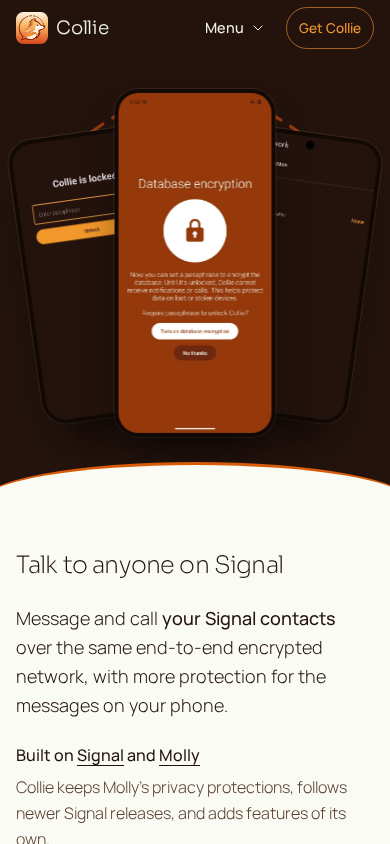
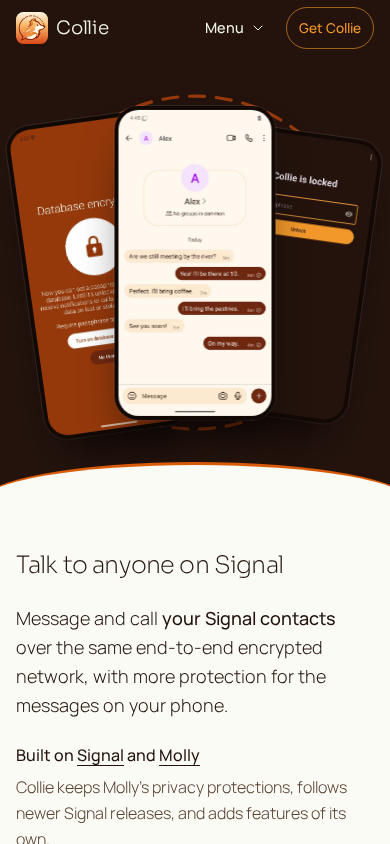
Freeze current real-messaging hero evidence and review context
Capture actual desktop, phone and tablet hero/page-top views with natural image ratios. Distinguish native viewport provenance, rear overlap, retained component proof and durable security validation.

Layer: website

Changed region(s): [[0.0308, 0.0924, 0.9231, 0.5237]]

diff --git a/docs/screenshots/pr-95/README.md b/docs/screenshots/pr-95/README.md
@@ -1,182 +1,78 @@
-# Current Collie website review set
+# Current website review evidence
 
-Implementation source is signed `b7b32031a75c23ec63a4bd62780e473beda4e245`; review the containing evidence commit as one candidate. Fresh native assets remain in `555fff83a6b7e8f5b8de89f522859f250a166b5f`. No score is supplied by the implementation owner.
+Implementation source is signed 0456fa475b76111a94c52949e2381f13a2ed8108; native assets/provenance are signed b3b4857fe6ebc0338f732cd9129c8b1bc94880f0. Review the containing evidence commit as one stable candidate. No rating is supplied by the implementation owner.
 
-## Current affected views
+## Current views
 
-| View | Screenshot | Actual iframe CSS viewport / PNG dimensions |
+All paths below are in this directory. The eight hero/page-top views are freshly rendered after adding the genuine chat. Unchanged component views retain their original source provenance: feature/Upcoming views from b7b32031a75c, community from 4a954f19b0b0, downloads/footer from 2917bdc27ad5. Their component source/appearance is unchanged by this image-only hero pass; their document offsets are reported separately.
+
+| View | File | Actual iframe CSS viewport / PNG dimensions |
 | --- | --- | --- |
-| Phone features | [features-mobile-light.png](features-mobile-light.png) | 390 × 1100 |
-| Phone introduction | [about-mobile.png](about-mobile.png) | 390 × 844 |
-| Narrow features | [features-narrow-light.png](features-narrow-light.png) | 320 × 1300 |
-| Narrow introduction | [about-narrow-light.png](about-narrow-light.png) | 320 × 844 |
-| Desktop features | [features-desktop-light.png](features-desktop-light.png) | 1280 × 1000 |
-| Unchanged tablet features | [features-tablet-light.png](features-tablet-light.png) | 768 × 1300 |
+| Desktop hero | [light](desktop-light.png) · [dark](desktop-dark.png) |1280×800|
+| Phone hero, scrolled to phones | [light](mobile-light.png) · [dark](mobile-dark.png) |390×844|
+| Narrow hero/curve | [hero-narrow-light.png](hero-narrow-light.png) |320×844|
+| Actual phone page top | [page-top-mobile-light.png](page-top-mobile-light.png) |390×844, scrollY0|
+| Actual narrow page top | [page-top-narrow-light.png](page-top-narrow-light.png) |320×844, scrollY0|
+| Actual tablet page top | [page-top-tablet-light.png](page-top-tablet-light.png) |768×1024, scrollY0|
+| Features | [desktop](features-desktop-light.png) · [tablet](features-tablet-light.png) |1280×1000 /768×1300|
+| Phone features | [390](features-mobile-light.png) · [320](features-narrow-light.png) |390×1100 /320×1300|
+| Upcoming plans | [desktop light](upcoming-desktop-light.png) · [phone dark](upcoming-mobile-dark.png) |1280×900 /390×1100|
+| Community/help | [desktop light](community-desktop-light.png) · [phone dark](community-mobile-dark.png) · [narrow light](community-narrow-light.png) |1280×900 /390×1300 /320×1500|
+| Downloads/footer | [desktop light](downloads-footer-desktop-light.png) · [dark](downloads-footer-desktop-dark.png) |1280×1100|
+| Phone downloads | [light](downloads-mobile-light.png) · [dark](downloads-mobile-dark.png) |390×1100|
+| Phone footer | [light](footer-mobile-light.png) · [dark](footer-mobile-dark.png) |390×844|
 
-These six are actual browser renders of the existing build HTML, CSS, embedded original fonts and image bytes in a fixed-size iframe via T3 `html_preview`. They are **source renders**, not live-tab screenshots. Only resource URLs are embedded; a capture script waits for fonts and scrolls to the requested existing section. No page layout, content, colors or assets are reconstructed or changed. Visible images reported loaded, fonts reported loaded, and actual iframe widths matched all four requested widths. This renderer uses overlay scrollbars and DPR 1; its usable width equals its viewport width. The last live T3 browser reserved 15px for a scrollbar and used DPR 2. Both measurements are reported separately below. The four current feature views are freshly rendered after the localized notification wording and balanced heading changes; card bounds/facts remain unchanged. Intro-only appearance is unchanged, but any old lead-heading pixels at the bottom of about-mobile.png/about-narrow-light.png are superseded by these feature views.
+These are actual browser renders of the existing static build HTML/CSS with original font/image bytes embedded in fixed-size iframes through T3 html_preview. They are source renders, not live-tab screenshots. Only resource URLs are embedded; the helper waits for fonts/visible images, scrolls to the existing section and finishes native CSS animations. No content/layout reconstruction or recoloring. Native overlay scrollbars, DPR 1: usable width equals actual innerWidth. Every current hero view reported its requested width, loaded fonts/images, expected light/dark media and no overflow. Phone montage views use stage top 80px to clear the 56px sticky header; page-top views are explicitly scrollY0.
 
-## Current remaining key views
+[render-source.py.txt](render-source.py.txt) preserves the exact rendering helper. It reads the existing build, not a mockup. The conversation's natural 540×1080 image renders 205.156×410.312px at 1280 and 153.094×306.188px at 390, preserving its ratio and complete header/composer without stretching or cropping. The rear encryption image remains 540×1200, likewise preserving its natural ratio.
 
-| View | Screenshot | Actual iframe CSS viewport / PNG dimensions |
-| --- | --- | --- |
-| Phone page top | [page-top-mobile-light.png](page-top-mobile-light.png) | 390 × 844, scrollY0 |
-| Narrow page top | [page-top-narrow-light.png](page-top-narrow-light.png) | 320 × 844, scrollY0 |
-| Narrow hero phones/curve | [hero-narrow-light.png](hero-narrow-light.png) | 320 × 844 |
-| Narrow community | [community-narrow-light.png](community-narrow-light.png) | 320 × 1500 |
-| Hero | [desktop-light.png](desktop-light.png) | 1280 × 800 |
-| Hero phones | [mobile-light.png](mobile-light.png) | 390 × 844 |
-| Upcoming plans | [upcoming-desktop-light.png](upcoming-desktop-light.png) | 1280 × 900 |
-| Dark phone plans | [upcoming-mobile-dark.png](upcoming-mobile-dark.png) | 390 × 1100 |
-| Community and help | [community-desktop-light.png](community-desktop-light.png) | 1280 × 900 |
-| Dark phone community and help | [community-mobile-dark.png](community-mobile-dark.png) | 390 × 1300 |
-| Downloads/footer | [light](downloads-footer-desktop-light.png) · [dark](downloads-footer-desktop-dark.png) | 1280 × 1100 |
-| Phone downloads | [light](downloads-mobile-light.png) · [dark](downloads-mobile-dark.png) | 390 × 1100 |
-| Phone footer | [light](footer-mobile-light.png) · [dark](footer-mobile-dark.png) | 390 × 844 |
+Earlier raw browser exports shifted orange into pink, including in their PNG pixels. This source-render path preserves actual source RGB: desktop primary 242/152/43 (#F2982B) and bark 36/19/13 (#24130D), measured with ffmpeg rgb24 crop/od. No source colors were changed to compensate. Older supporting live captures (menu, narrow header, desktop introduction, Obtainium) retain c2a7b7c647de24fa50185f84b29fe141aaa6d931 provenance. Their component source is unchanged; about-mobile/about-narrow retain valid intro composition but their partial old feature-heading pixels are superseded by current feature views. community-narrow-dark.png is historical and superseded by the current community views. Use the table above for current hero/palette/feature judgments. Live T3 snapshot/input transport later timed out across callers and disconnected; no failed call is claimed as a pass.
 
-These key views use the same exact-source renderer, native overlay-scrollbar environment and DPR 1 as the six affected views. CSS animations are finished through their native animation API before capture, showing their actual final state. The phone hero is scrolled with the stage top 80px below the viewport top to keep all cases visible beneath the 56px sticky header. Every capture reports the requested actual width, loaded fonts and visible images, expected light/dark media and no horizontal overflow. Built CSS bytes exactly match signed production source.
+## Audience and retained requirements
 
-Exported hero pixels match source colors without recoloring: at (120,590), inside the primary button, RGB 242/152/43 is source #F2982B; at (20,100), bark RGB 36/19/13 is source #24130D. These were sampled from the 1280×800 PNG using `ffmpeg -vf 'format=rgb24,crop=1:1:X:Y' -frames:v 1 -f rawvideo - | od -An -tu1`. Current key review views therefore need no pink/orange capture caveat. Contrast checks below remain computed-CSS measurements with their original scope.
+Collie is an Android messenger for ordinary Signal users. Copy is largely approved; people skim, so reading priority, grouping, hierarchy and actionable labels matter. The hero now shows familiar messaging first, backed by on-device protection. Preserve the Collie bark/lichen/orange palette, self-hosted Manrope/Sora and logo-derived dashed ring. Decorative radial-gradient blobs were rejected and removed.
 
-Exact capture-helper source is retained in [render-source.py.txt](render-source.py.txt). It reads the existing static build, embeds original resources, wraps it in a fixed-size iframe and logs readiness/position evidence. Invocation was `python3 render-exact.py WIDTH HEIGHT SECTION`, followed by T3 `html_preview` with the resulting exact-render.html path, matching width and light/dark appearance. PNG data was saved directly without processing. Sections are existing IDs, or hero/phones/footer for their existing class selectors.
+Immediately below the hero, one introduction consolidates Signal compatibility and Signal/Molly foundations. The benefit leads, provenance is quieter, and Source and security details is an optional native disclosure. Side by side, package-name and one-account/two-app explanations remain absent from that introduction; installation verification still names the package. The legal footer disclaimer remains byte-identical.
 
-Current feature views at 320/390/768/1280 and Upcoming views at 1280/light and 390/dark are freshly rendered from signed b7b32031a75c. Other source renders retain 94dbe9f6f2eb or 2917bdc27ad5 provenance and their component source is unchanged. Historical same-byte comparisons described below apply before the final localized copy/heading changes. Current feature views are authoritative for the notification text and heading wraps.
+Matrix chat and GitHub Discussions forum are prominent, with distinct chat/thread-list icons, 40px icon boxes and 22px titles against 16.8px lighter Help subheads. Bug reporting/donations retain a separate Help the project group. Actions remain underlined, with selective bold/italic emphasis.
 
-Supporting older live captures retain c2a7b7c647de24fa50185f84b29fe141aaa6d931 provenance. Menu, narrow header, desktop introduction, dark desktop hero and Obtainium appearance remain unchanged. **mobile-dark.png and community-narrow-dark.png are historical and superseded** by current mobile-light.png, hero-narrow-light.png, community-mobile-dark.png and community-narrow-light.png; do not use them to judge current curve/hierarchy. Older live exports can shift orange into pink. Current key source renders preserve source colors. Live screenshot/recording transport timed out across callers and reported an unavailable automation host. No browser was installed and no system security policy changed.
+Plans are generated from the existing upcoming-planned-features category during daily builds, priority-labelled discussions first with a separate label-derived Priority badge. The supplied snapshot has ten discussions/eight plans. The planned-work disclaimer is explicit; URLs remain unchanged. Discussion 106's title “Send a text with its own timer” was checked against its source: holding Send applies a one-time timer to one text; no duration/start/view-once claim was invented.
 
-## Latest verified review fixes
+Notifications now says “Get message alerts without Google's push service. Collie can keep its own connection open, or use UnifiedPush with a server you trust.” The UnifiedPush anchor is unchanged. Exact required link text remains “Why it matters and why we're working on making it easy.” → #upcoming. That target's existing explanation replaces the vague “but setup still takes extra steps” with “but currently needs a trusted MollySocket server.” Planned disclaimer/list/URLs are unchanged. Source verification used IncomingMessageObserver, ApplicationContext and MollySocketRepository; this is consumer wording for real behavior, not removal of the trusted-server requirement.
 
-| Finding | Disposition and measured evidence | Focused change |
-| --- | --- | --- |
-| Desktop lead body leaves a blank right region | Valid; card 714.66×408, body capped 460px, facts 640.66px. Blank interior strip 180.66px, or 217.66px including padding; 40% estimate was high. | Above 860px body now shares facts width 640.66px. Card stays 408px high; longest text line ends 51.66px from card edge. No phone/tablet feature change. |
-| Matrix/forum do not sufficiently outrank help subheads | Valid; titles 18.4px vs help 16.8px (1.095×), icons 28px. | Titles 22px (1.31× help), icons 40px without shrink; Help weight 400. Copy and underlined links preserved. |
-| Phone shadow spills onto cream | Valid; old 390 center y465 RGB 208/210/204 and y480 RGB 236/238/231. | Phone-only curve stacking paints cream above shadows. Full-width40px strips now uniformly RGB 249/251/244: 390 y487–526, 320 y417–456, after antialiased edge. Desktop hero PNG unchanged. |
+Obtainium and F-Droid repository share primary styling; only Obtainium gets Recommended. Manual APK remains secondary. Website uses relative obtainium/ so the actual localhost CTA reaches the handoff; README uses https://collie.im/obtainium/. GitHub remains the APK update source and https://collie.im/#get the manual fallback. The verified nested-JSON APK filter was not altered. Actual app import/install through Obtainium was not performed.
 
-The notification action retains its existing spacing. The compact row now says: “Get message alerts without Google's push service. Collie can keep its own connection open, or use UnifiedPush with a server you trust.” The UnifiedPush anchor and exact requested why sentence/link are unchanged. Source verification: IncomingMessageObserver.kt documents keeping the incoming-message WebSocket open; ApplicationContext.java switches WebSocket/UnifiedPush; MollySocketRepository.kt connects to the configured server.
+## Genuine native images and composition
 
-The existing Upcoming sentence changed narrowly from “UnifiedPush lets you choose who delivers your notifications, but setup still takes extra steps.” to “UnifiedPush lets you choose who delivers your notifications, but currently needs a trusted MollySocket server.” The planned disclaimer, list generation and URLs are byte-identical. The technical setup fact is available at the same why-link target, without naming MollySocket in the compact feature row.
+The montage uses **conversation front, corrected encryption left, locked screen right**. The technical proxy image is retained in source/Fastlane but no longer fronts this ordinary-user story. No CSS redesign was needed. Rear overlap covers portions of the encryption title/controls; the lock glyph/centered setup remain recognizable, and the full native image is available separately. There is no claim that every rear control is unobscured.
 
-The heading balances as “Locked when” / “you step away” at all four checked widths. At320 this preserves the earlier wrap. No card/facts/padding changes. Fourteen tests and diffcheck pass; every render reports actual width, loaded fonts/visible images and no overflow. The 320 five-item region is 24px taller from the localized wording; 390 remains 566.69px. No native run occurred; authentic offline demo imagery awaits explicit disk-WARN approval.
+The chat is real API 35 app UI with fictional offline Alex/six messages inserted by a temporary fixture. Header, bubbles, avatar and composer are app-rendered, not fabricated/composited pixels. The native 1080×2160 PNG is Fastlane 1.png, SHA256 28ade62dd49c45047c283ce232f14b7dedf0e36d788e85825dfa6d1fea4a2688. conversation.webp is its 540×1080 q82 resize, SHA256 b94444eeab129ef45a453dd19c73b7ad181bed0d9d636623cdb30c3a81ea5b54. No personal account or service traffic: guest airplane mode on, data/Wi-Fi off, no active default network; fixture networking disabled before registration and checked afterward.
 
-## Product requirements to preserve
+Fastlane 3.png is a **separate new native 1080×2160 encryption capture**, SHA256 b85f15db028af21b96692d4baa431496e19ccc7304e11cd4612046ee0245f5da. Its title y451, last button bottom 1760 and system insets 115/63 give 336/337px free space. Offline no-registration centering passed 1 collected test with no skip. Durable restoration passed 1 test, followed by cold production PID 6443/task 18 with WMS SECURE. A temporary setter-only restoration initially failed that real-window proof; waiting for SignalStore writes fixed the fixture. No production Android change is included.
 
-Collie is an Android messenger for ordinary Signal users. Explain familiar messaging and extra protection on the phone; do not pitch readable patches as a benefit to everyone. Existing factual copy is mostly approved. People skim, so grouping, type hierarchy, emphasis and actionable labels should communicate the story before paragraph reading. Preserve the bark, lichen and orange identity, Manrope and Sora, real screenshots and the logo-derived dashed ring. Decorative radial-gradient blobs were explicitly rejected and removed.
+The website encryption remains the original corrected 540×1200 WebP, SHA256 6862fbc60d5eb744ec9ba441bdec5ba4e064f3674343d5909760a19180bb0848. Its original 1080×2400 PNG and 450/450px geometry remain preserved at immutable 555fff83a6b7e8f5b8de89f522859f250a166b5f. Do not confuse those original website pixels with the distinct 2:1 Fastlane capture; hashes/dimensions differ honestly. The unchanged validator and official Izzy 2:1 rule required a native viewport capture, not cropping/padding or weakening policy.
 
-The introduction immediately below the hero consolidates Signal compatibility and Signal/Molly foundations. A text-only rearrangement and a competing provenance card did not satisfy the request for informational clarity. The current open composition puts its topic heading on the left, benefit first on the right, then quieter foundations and one optional source/security disclosure. Mobile follows that DOM order. Do not reintroduce Side by side, package-name, or one-account/two-app explanations. The legal disclaimer stays unchanged in the footer.
+Fastlane first three are chat/lock/encryption. Existing privacy moves to 4.png; 5–9 remain; settings-overview.png preserves old 1.png byte-for-byte. No other screenshot was discarded. Local main received only the new 3.png in signed a156e045212300b65bc1846bde39f9928fbad3d3, preserving the original website WebP and unrelated files; main was not pushed.
 
-Matrix chat and the GitHub Discussions forum remain prominent entry points, with different chat-bubble and thread-list icons. Their actions are underlined. Bug reports and donations remain in the separate Help the project group. Keep selective bold and italic emphasis. The notifications card must retain the exact link text “Why it matters and why we're working on making it easy.” pointing to `#upcoming`.
+See [conversation-capture.md](conversation-capture.md) for exact commands, matching APK/helper hashes, UI dumps and security proof, and [encryption-capture.md](encryption-capture.md) for the original viewport record. Use only offline-demo-security.kt.txt for future fixture reproduction; historical pre-flush snapshots are provenance-only and clearly superseded.
 
-Plans come from the existing `upcoming-planned-features` Discussions category, refreshed by daily builds, with label-priority items first. They must remain clearly labelled planned rather than shipped. The checked snapshot has ten discussions, eight in that category; no roadmap items were invented. Obtainium and the F-Droid repository have equal primary styling, with Recommended only on Obtainium. Manual APK download remains secondary. README uses the absolute Collie-hosted handoff; the website uses relative `obtainium/` so clicking the real CTA stays on the live build before publication. On the published domain it reaches the same destination. Preserve GitHub as the update source and `https://collie.im/#get` as the manual fallback. The verified nested-JSON APK filter is unchanged.
+## Layout and validation evidence
 
-## Changes in this candidate
+Below 600px, the encryption lead is followed by five visible compact feature items: 40px icon beside title, body aligned under title and hairline separators. No hidden descriptions or new padding. Heading balances “Locked when” / “you step away” at 320/390/768/1280; 320 wrap is unchanged. Desktop body/facts share 640.66px, card remains 714.66×408 and longest body line ends 51.66px from its edge.
 
-The roadmap renderer maps stable discussion numbers to concise display titles. Unknown titles retain their wording after removing editorial prefixes such as High Priority or bracketed tags. Escaping happens after display-title selection. A separate Priority badge comes only from the label, never title text. All eight discussion URLs are unchanged. Priority title weight is 600; ordinary plan titles are 500. The two-column grid reads across rows; mobile uses one column. The italic planned-work disclaimer is unchanged; the notification introduction now names the current trusted MollySocket requirement as described above. The gap from the roadmap follow-up links to the community heading is now 64 CSS px.
+Current overlay-scrollbar measurements:
 
-Only below 600px, the five secondary feature cards now form a compact list: 40px icons sit beside titles, body text aligns beneath titles, and the existing rule color separates items. Their card backgrounds, outlines, radii and inner padding are removed. Every word and link is retained. The encryption lead is unchanged. The intro heading is 24px against the 32px feature heading (75%), with the source/security disclosure visible in both introduction captures. The compact-list change remains phone-only; the latest separate desktop explanation reflow is described above.
-
-The lead feature retains its desktop two-column/two-row position and featured surface. Its 40px icon sits beside the heading; the approved explanation remains. Three short facts restate that explanation: Passphrase you choose; Locks after a set time; Stays encrypted if lost or stolen. A hairline separates the facts, and their row sits at the bottom. Smaller cards use one deliberate icon-to-heading gap rather than stacked padding and automatic margins. At phone widths up to 600px, the repeated facts and their divider are hidden; the approved paragraph already says the same thing. Wider screens retain the three facts. Phone spacing from the upcoming introduction to the italic note is 12px, and from that note to the list is 22px. No wording in either paragraph changed.
-
-The narrow header is now a page-level sibling of the hero, so hero overflow cannot prevent persistent navigation. At 860px and below it is 56px high and sticky, with brand, Menu and Get Collie. Menu exposes the existing five section links in desktop order. Enter opens it; Escape closes it and returns focus; choosing a link or clicking outside closes it. Anchored sections have 56px scroll margin. Below 360px the wordmark is 16px rather than 18.4px, adding breathing room while retaining the 56px header, logo and Get Collie. At 320px the wordmark-to-Menu text gap is 19.16px, compared with 12.30px before this refinement. The desktop header keeps its existing behavior. There is no menu animation to suppress in reduced-motion mode; existing reduced-motion rules also disable smooth scrolling and hero motion.
-
-The featured heading uses `text-wrap:balance` with the existing 17ch cap, without changing font size or card geometry.
-
-The source/security disclosure keeps its native underlined, focusable 44px summary. Its chevron now follows the label with an 8px gap rather than sitting at the far edge.
-
-The display title for [Discussion 106](https://github.com/0cwa/collieim-android/discussions/106) is “Send a text with its own timer”. The discussion describes holding Send to apply a one-time timer to an individual text. It does not specify duration choices, timer start conditions or view-once media. The link remains unchanged, and an assertion in the existing mapping test covers the concise title.
-
-## Relevant implementation excerpts
-
-```html
-<div class="site-header">
-  <header class="top shell">
-    <!-- Existing brand -->
-    <button class="menu-toggle" type="button" aria-expanded="false" aria-controls="section-menu">Menu <!-- SVG chevron --></button>
-    <nav id="section-menu" aria-label="Main">
-      <!-- Features, About Collie, Upcoming features, Community, Get Collie -->
-    </nav>
-    <a class="nav-get mobile-get" href="#get">Get Collie</a>
-  </header>
-</div>
-<!-- The hero starts after this page-level header. -->
-```
-
-```css
-.feature-head{display:flex;align-items:flex-start;gap:16px}
-.feature-head h3{max-width:17ch}
-.feature-facts{display:grid;grid-template-columns:repeat(3,minmax(0,1fr));gap:20px;margin-top:auto;padding-top:20px;border-top:1px solid var(--rule);font-size:.9rem;line-height:1.5;font-weight:500}
-.plan-badge{flex:none;padding:3px 9px;border-radius:999px;background:var(--soft);color:var(--bark);font:600 .75rem/1.5 Manrope,sans-serif}
-@media(max-width:860px){
-  html{scroll-padding-top:0}
-  main>section{scroll-margin-top:56px}
-  .site-header{position:sticky;top:0}
-  .top{position:relative;height:56px;padding-block:0;gap:12px}
-  .top nav{display:none}
-  .top nav.is-open{display:flex}
-}
-@media(max-width:600px){
-  .feature-facts{display:none}
-  .intro h2{font-size:1.5rem;line-height:1.25}
-  .card:not(.featured){position:relative;display:grid;grid-template-columns:40px minmax(0,1fr);gap:4px 12px;margin-top:0;padding:0;border:0;border-radius:0;background:none}
-  .card.featured + .card{margin-top:8px}
-  .card:not(.featured)::before{content:"";position:absolute;inset-inline:0;top:-6px;border-top:1px solid var(--rule)}
-  .card:not(.featured) .ico{grid-column:1;grid-row:1/span 2;width:40px;height:40px;margin:0}
-  .card:not(.featured) h3{grid-column:2;grid-row:1;min-width:0;font-size:1.0625rem;line-height:1.35;font-weight:400}
-  .card:not(.featured) p{grid-column:2;grid-row:2;min-width:0}
-  .card:not(.featured) a[href="#upcoming"]{display:inline-block;min-height:24px;line-height:24px}
-  .upcoming-status{margin-top:12px}
-  .roadmap-list{margin-top:22px}
-}
-@media(max-width:359px){.top .brand{font-size:1rem}}
-.intro .technical-details summary{justify-content:flex-start;gap:8px}
-```
-
-The full narrow-menu rule positions the solid panel immediately below the header; it is not a fixed overlay. JavaScript updates `aria-expanded` and the `is-open` class together. Escape invokes the same close function and calls `toggle.focus()`.
-
-```python
-priority = is_priority(node)
-item_class = ' class="priority-plan"' if priority else ""
-badge = '<span class="plan-badge">Priority</span>' if priority else ""
-title = html.escape(display_roadmap_title(node))
-items.append(f'<li{item_class}>{badge}<a href="https://github.com/{repo}/discussions/{int(node["number"])}">{title}</a></li>')
-```
-
-## Measured browser checks
-
-The following live-T3 table predates the latest community typography change and is retained as historical geometry evidence, not a fresh measurement of downloads positions. Current source-render measurements follow it.
-
-| Actual CSS width | Horizontal overflow | Header | Downloads start, CSS px |
+| Width / usable width | Five-item region | Downloads document Y | Overflow |
 | --- | --- | --- | --- |
-| 320 | none; document width 305 | 56px sticky | 5437.09 |
-| 390 | none; document width 375 | 56px sticky | 4865.26 |
-| 768 | none; document width 753 | 56px sticky | 4214.27 |
-| 1280 | none; document width 1265 | 90px normal | 3684.98 |
+|320 /320|685.63px|5337.80px|none|
+|390 /390|566.69px|4785.45px|none|
+|768 /768|644px|4197.83px|none|
+|1280 /1280|668px|3689.45px|none|
 
-These live checks used actual `innerWidth`. At 390px, the five-item region shrank from 978px to 614.73px; at 320px, from 1150px to 732.62px. This counts first secondary item top through last item bottom, including gaps. The encryption lead remains exactly 279.73px at 390 and 306.93px at 320. Every title and body starts at x68, to the right of the icon at x16; wrapped titles never flow below the icon. The notification action measures 291×48px at 390 and 221×48px at 320. All six card rectangles match the previous source exactly at 768 and 1280.
+The 390 compact region is unchanged by the final notification wording; 320 uses one extra 24px text line. Hero imagery does not alter downstream layout. Phone intro heading is 24px against 32px features (75%). Notification action is 306×48px at 390 and 236×48px at 320, above 24px. Earlier live T3 reserved 15px for a scrollbar: its390 region 614.73px was measured against real 978px baseline; that environment is distinct, not substituted for current source-render widths.
 
-The source-render environment has no reserved scrollbar. At widths 320/390/768/1280, usable widths are likewise 320/390/768/1280, with no horizontal overflow and loaded fonts. Five-item heights are 685.63/566.69/644/668px; downloads start at 5337.80/4785.45/4197.83/3689.45px. This is an explicit environment difference, not a replacement for live measurements. Intro/feature headings are 24/32px on phones, 32/32px at 768, and 44/48px at 1280. Current feature PNGs show the localized copy and balanced title; card bounds/facts remain unchanged. The 320 notification copy uses one additional 24px line. The intro disclosure is visible in both phone introduction renders.
+The56px page-level sticky narrow header retains Menu/Get Collie and all five section links. Prior native Tab→Menu, Enter/Escape, outside/link closing and heading-clearance checks apply to unchanged navigation source; heading tops were 88–134px with header bottom 56px. Later timed-out pointer/key transport did not reach DOM and is not new successful interaction evidence. Native source disclosure is focusable/underlined, 44px high with 8px chevron gap. Previous cream-strip checks remain valid: full-width 40px bands after the curve were exactly 249/251/244 at 390/320. No CSS changed in this image pass.
 
-Native keyboard Tab from the brand reached Menu, Enter changed `aria-expanded` to true, and Escape restored false with focus on Menu. Outside-click closing passed. Each of the five actual menu links was clicked at both 390px and 768px. Every menu closed, and all headings landed below the header: heading tops ranged from 88.01px to 134.22px, with the header bottom at 56px. These position checks used automatic scrolling in the owned test tab to avoid measuring a smooth-scroll midpoint; source motion rules were unchanged. That Menu keyboard evidence applies to the unchanged navigation markup and JavaScript. In this scoped pass, the native summary was focusable and DOM activation opened and closed it. Later pointer transport timed out, and an instrumented Enter attempt produced no DOM keydown or keyup events; no fresh trusted-keyboard or pointer result is claimed from those failed transport calls.
+Fourteen website tests pass (category/priority/title mapping/escaping/API failures/pagination/safe paths/Obtainium), the Fastlane metadata validator passes, and git diff --check passes. Native seed, offline centering and durable restore each collected/passed 1 test. Selected computed-CSS contrast evidence only: light badge 14.20/menu 15.69/facts 14.20; dark badge 14.20/menu 16.55/facts 8.01. No whole-site AA claim. The Impeccable detector used its limited fallback because parser modules are absent; no full automated audit is claimed. Impeccable 4.1.1 was already installed for Codex and used; no installation/download.
 
-Selected computed CSS contrast ratios were measured with the WCAG sRGB luminance formula. Light mode: badge 14.20:1, menu links 15.69:1, lead facts 14.20:1. Dark mode: badge 14.20:1, menu links 16.55:1, lead facts 8.01:1. These are checks of the new elements, not a whole-site automated contrast audit. Appearance and viewport readings were taken after fresh navigation; stale per-element media values were not treated as source defects. The Impeccable detector used a degraded regex fallback because parser modules are unavailable. Its retained warning is the existing 3px curved hero boundary; no clean automated audit is claimed.
-
-Clicking Add to Obtainium originally left localhost for the undeployed absolute route and showed GitHub Pages' not-found page. After making the website link relative, clicking that same CTA opened `http://localhost:8879/obtainium/`; the page text, Open Obtainium URI, download link and manual homepage fallback were read. Actual Obtainium installation/import on a phone was not performed.
-
-## Fresh native image evidence
-
-The [Fastlane PNG](../../../fastlane/metadata/android/en-US/images/phoneScreenshots/3.png) and [website WebP](../../site/assets/screens/encryption.webp) now come from the same newly captured API 35 screen. The old branch Fastlane image was visibly stale: its title overlapped the camera area and its content sat high. Merely moving an existing image to the front did not correct that file. See [encryption-capture.md](encryption-capture.md) for commands, source, hashes and security restoration.
-
-The fresh PNG is 1080×2400; WebP is 540×1200. In the actual user-visible screen, the title's view begins at y578, well below the 128px status-bar inset. The final button ends at y1887, above the 63px navigation inset. Therefore free space is exactly 450px above and below. Title, lock circle, body and both controls are visibly centered and unobscured. The browser's loaded `currentSrc` and no-store fetch match the new WebP hash. Encryption remains the foreground hero phone, lock is left and proxy is right. No conversation image was fabricated.
-
-## Validation and reproduction
-
-```sh
-python3 tooling/site/build.py --out /home/x/agent-scratch/collieim-android/pr-screenshots/site --tag v8.35.1-3-rc2 --roadmap-json /home/x/agent-scratch/collieim-android/pr-screenshots/roadmap-nodes.json
-python3 -m unittest discover -s tooling/site -p test_build.py
-```
-
-Fourteen website tests pass, including five added checks for stable mappings, prefix cleaning, mapped-title escaping, unknown-title preservation and label-only badges. Existing category, ordering, injection, pagination, failure, safe-path and Obtainium checks remain. `git diff --check` passes. The actual native centering method passed without skip, and the screen-security restoration fixture passed. Temporary app test helpers, generated Android build directories, the dedicated emulator and its AVD were removed after evidence collection. The live Python preview remains running by request.
-
-## Remaining review questions
-
-Mobile hero length remains deliberately outside this pass: its copy appears before the phones, so the fresh image is below the first fold on narrow screens. Community remains lower in the page but has hero and persistent-menu entry points. Desktop/tablet six-card topology is unchanged; phones retain the featured card followed by five visible list items. The notification feature now uses plain connection/trusted-server wording; the exact server requirement is in Upcoming. No real conversation capture was supplied. Review these as honest remaining design tradeoffs; do not infer approval from passing tests or from this implementation note.
-
-Impeccable 4.1.1 was already installed for Codex under `~/.agents/skills/impeccable`. Its context, layout and craft-floor guidance was used. Canonical documentation confirms that path and `$impeccable`; nothing was installed or downloaded. Source, imagery and validation limits are recorded for independent review at the containing commit.
+Remaining design tradeoffs are visible in the images: long mobile hero before the full phones, a large genuine native profile header in the demo chat, rear-screen overlap and the technical setup detail in Upcoming. No independent approval is implied by passing checks. The requested localhost:8879 server/shared caches remain; temporary Android test sources, 47 generated build/cache directories and owned AVD/runtime were removed after exact proof was saved. Unrelated emulators/worktrees and user files were untouched.

diff --git a/docs/screenshots/pr-95/completion-audit.md b/docs/screenshots/pr-95/completion-audit.md
@@ -1,6 +1,6 @@
 # Completion audit for the current website candidate
 
-This is a factual requirement audit, not a design rating. Source and current images are packaged in the containing commit; native image provenance is unchanged from the separately pushed correction.
+This is a factual requirement audit, not a design rating. Source and current images are packaged in the containing commit; native image provenance distinguishes the original website encryption capture from the new native 2:1 Fastlane captures.
 
 | Requirement | Evidence/current state |
 | --- | --- |
@@ -10,13 +10,13 @@ This is a factual requirement audit, not a design rating. Source and current ima
 | Exact notification link and emphasis | Required sentence/UnifiedPush anchor remain unchanged. Feature now describes alerts/connection plainly; precise trusted MollySocket requirement is at Upcoming. Selective emphasis/underlined links remain. |
 | Discussion-generated plans | Existing category only; eight plans in the supplied snapshot, label-priority first, separate badge, explicit planned disclaimer. Daily workflow uses 06:17 UTC and read permissions. Discussion106 wording was checked against the public source; URL unchanged. |
 | Installation options | Obtainium/F-Droid share primary styling; Recommended appears only once; manual APK remains secondary. Website's actual CTA reaches its local handoff; README retains absolute Collie URL. GitHub update source, manual collie.im/#get fallback and tested nested-JSON filter are unchanged. |
-| Fresh native screenshot | Fastlane PNG and website WebP share the new 06:53 API 35 capture. Matching-APK centering test passed unskipped; actual title/button geometry gives equal 450px clearance. Security preference restoration passed and subsequent window SECURE flag was verified. No fabricated chat image. |
-| Actual hero/current pixels | Encryption stays in front, lock left, proxy right. Browser loads the new WebP hash. Current native hashes match signed 555fff83a6b7 and local-main signed bf7e38610090. |
-| Brand/live workflow | Solid hero; no CSS radial gradients. Fonts/palette/order unchanged. Existing localhost:8879 server retained. Impeccable 4.1.1 was present and used; no install/download. |
+| Fresh native screenshots | Genuine offline Alex/six-message chat and corrected encryption captured at native 1080×2160. Seed/centering/durable restore each passed 1 test, no skip; encryption geometry 336/337px with title below bars. Cold production PID 6443/task 18 showed SECURE. Website encryption retains original 1080×2400 source/540×1200 derivative and 450/450px geometry. Distinct hashes/viewports are documented; no fabricated UI. |
+| Actual hero/current pixels | Genuine conversation front, original corrected encryption left, locked screen right. Natural image ratios preserve front header/composer; rear title/controls are partially overlapped, never claimed fully unobscured. Chat PNG 28ade62d…/WebP b94444ee…; new Fastlane encryption b85f15db…; original website encryption 6862fbc6…. |
+| Brand/live workflow | Solid hero; no CSS radial gradients. Fonts/palette/section order unchanged; selected real hero screens updated. Existing localhost:8879 server retained. Impeccable 4.1.1 was present and used; no install/download. |
 | Narrow navigation | 56px persistent header, native button/ARIA state, existing section links and Escape/outside/link closing. Prior successful keyboard/anchor evidence is distinguished from later degraded input transport in README. |
-| Validation | 14 website tests passed; no overflow at actual 320/390/768/1280. Current intro/features, hero, roadmap, community and downloads/footer use exact built-source browser renders with verified fonts/images/media/viewport; latest affected groups/page tops are fresh, unchanged components retain explicit 2917 provenance. Exported button/bark RGB matches source. Supporting older live captures retain original provenance. Selected contrast scope only; no whole-site AA assertion. |
-| Local main |Only the two immutable image blobs were committed as bf7e386100905d5c5c03bb2f22cff480c647ebe4. Main was not pushed; unrelated .local/ and tools/ were preserved. |
-| Cleanup |Dedicated emulator-5562/AVD, temporary app tests and 47 generated build/cache directories removed. Emulator-5554 was untouched. Shared SDK/JDK/dependency caches and requested preview server retained. |
+| Validation | 14 website tests and Fastlane metadata validator passed; no overflow at actual 320/390/768/1280. Current intro/features, hero, roadmap, community and downloads/footer use exact built-source browser renders with verified fonts/images/media/viewport; latest affected groups/page tops are fresh, unchanged components retain explicit 2917 provenance. Exported button/bark RGB matches source. Supporting older live captures retain original provenance. Selected contrast scope only; no whole-site AA assertion. |
+| Local main | Original website WebP stays unchanged; only new native 2:1 Fastlane 3.png updated in signed a156e045212300b65bc1846bde39f9928fbad3d3. No main push. Unrelated staged/untracked state, including .local/ and tools/, preserved. |
+| Cleanup |Dedicated emulator-5562/AVD, temporary app tests and 47 generated build/cache directories removed. Unrelated emulators 5554/5580 were untouched. Shared SDK/JDK/dependency caches and requested preview server retained. |
 
 ## Verified review findings
 
@@ -26,9 +26,9 @@ This is a factual requirement audit, not a design rating. Source and current ima
 | Featured heading orphan | Valid, high | text-wrap:balance yields Locked when / you step away at 320/390/768/1280;320 wrap unchanged, no card/facts change. |
 | Desktop lead body cap | Valid, high | Above 860px body 460 to 640.66px; card remains 408px; text-to-card-edge 51.66px. |
 | Community primary hierarchy | Valid, high | Titles 22px vs help 16.8px, icons 40px; lighter Help, unchanged copy/links. |
-| Phone curve shadow spill | Valid, high | Full-width 40px bands are uniformly 249/251/244 at 390/320; desktop hero unchanged. |
-| Phone secondary cards are too tall | Valid, high | Below600 only: five visible list items with inline40px icons and aligned body text. Live390 region978 to614.73px; encryption lead unchanged. Wider feature PNGs are byte-identical to baseline. |
-| Phone introduction competes with features | Valid, high | Heading24px against32px features (75%); disclosure remains visible. |
+| Phone curve shadow spill | Valid, high | Phone-only curve stacking fixes shadow spill; this image pass changes no CSS. New hero source renders show the actual current photos. |
+| Phone secondary cards are too tall | Valid, high | Below 600 only: five visible list items with inline 40px icons and aligned body text. Live 390 region 978 to 614.73px; encryption lead unchanged. The later localized notification copy/balanced heading intentionally update feature pixels; card geometry remains. |
+| Phone introduction competes with features | Valid, high | Heading 24px against 32px features (75%); disclosure remains visible. |
 | Phone feature facts repeat the paragraph | Valid, high | Hidden with their divider only at widths up to 600px; desktop remains. |
 | Phone roadmap spacing is too generous | Valid, high | Margins changed from 18/32px to 12/22px without changing either paragraph. |
 | Disclosure chevron is detached from its label | Valid, high | Flex alignment now starts at the label with an 8px gap; native summary retained. |
@@ -38,12 +38,12 @@ This is a factual requirement audit, not a design rating. Source and current ima
 
 ## PR102 proof remains separate
 
-PR102 head is signed 614ed0f18d5301496fa1f86a756e64cb07e4910b. Its code matches the tested 5660b3934dea8855530fb32ab6e10f12754a54c5; only eight PNGs and capture notes were added afterward. The recorded run reports OK (6 tests): five native UI methods and one link method, no skips. Six portrait captures are 1080 × 2400 and two landscape captures 2400 × 1080. All eight full-SHA images and reproduction notes are attached to the PR description. Battery-restriction prompting alongside the notes and the short large-text landscape reading area remain explicitly documented; this website pass does not claim to resolve them.
+Recorded PR102 proof commit is signed 614ed0f18d5301496fa1f86a756e64cb07e4910b. Its code matches the tested 5660b3934dea8855530fb32ab6e10f12754a54c5; only eight PNGs and capture notes were added afterward. The recorded run reports OK (6 tests): five native UI methods and one link method, no skips. Six portrait captures are 1080 × 2400 and two landscape captures 2400 × 1080. All eight full-SHA images and reproduction notes are attached to the PR description. Battery-restriction prompting alongside the notes and the short large-text landscape reading area remain explicitly documented; this website pass does not claim to resolve them.
 
 ## Remaining completion steps outside this frozen review packet
 
-- Independent design approval is not claimed. Authentic everyday-messaging imagery remains absent; optional offline capture awaits explicit user disk-WARN approval.
-- PR95 contains the fresh native asset correction 555fff83a6b7e8f5b8de89f522859f250a166b5f. Its description uses immutable published candidate images, 14-test scope and selected contrast evidence; no blanket all-text AA claim is supported.
+- Independent design approval is not claimed. Authentic everyday-messaging imagery is now present and the new stable candidate is ready for independent review. No prior grades or desired score are supplied here.
+- PR95 publication uses immutable candidate images, 14-test/metadata scope and selected contrast evidence. Native records distinguish original 2400 website pixels from current 2160 Fastlane captures. No whole-site AA claim is supported.
 - Public deployment and actual Obtainium app installation/import have not been performed in this website lane. The local CTA/handoff was read end to end. No default-branch push, merge or production deployment occurred.
 
 The footer disclaimer is byte-for-byte unchanged from the consolidation base. No source, screenshot or documentation updates should be made while this candidate is being scored.
